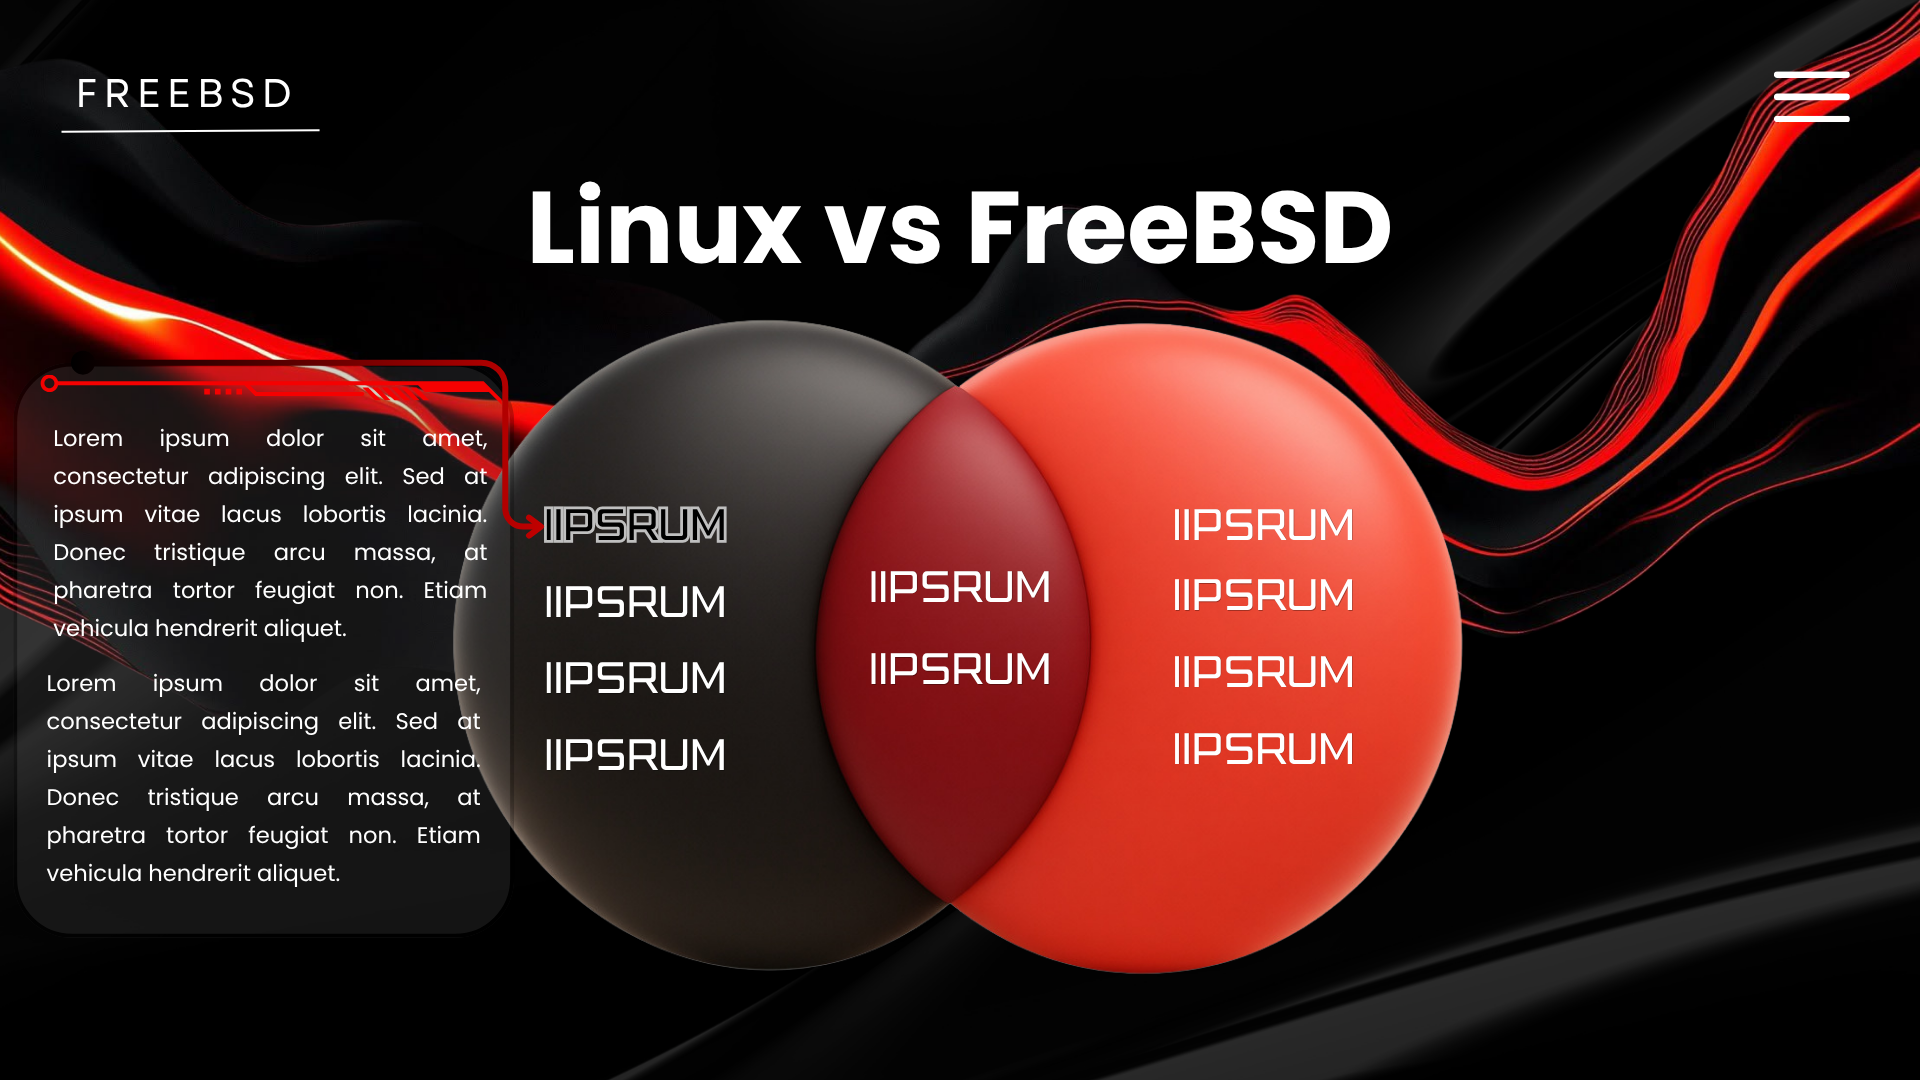
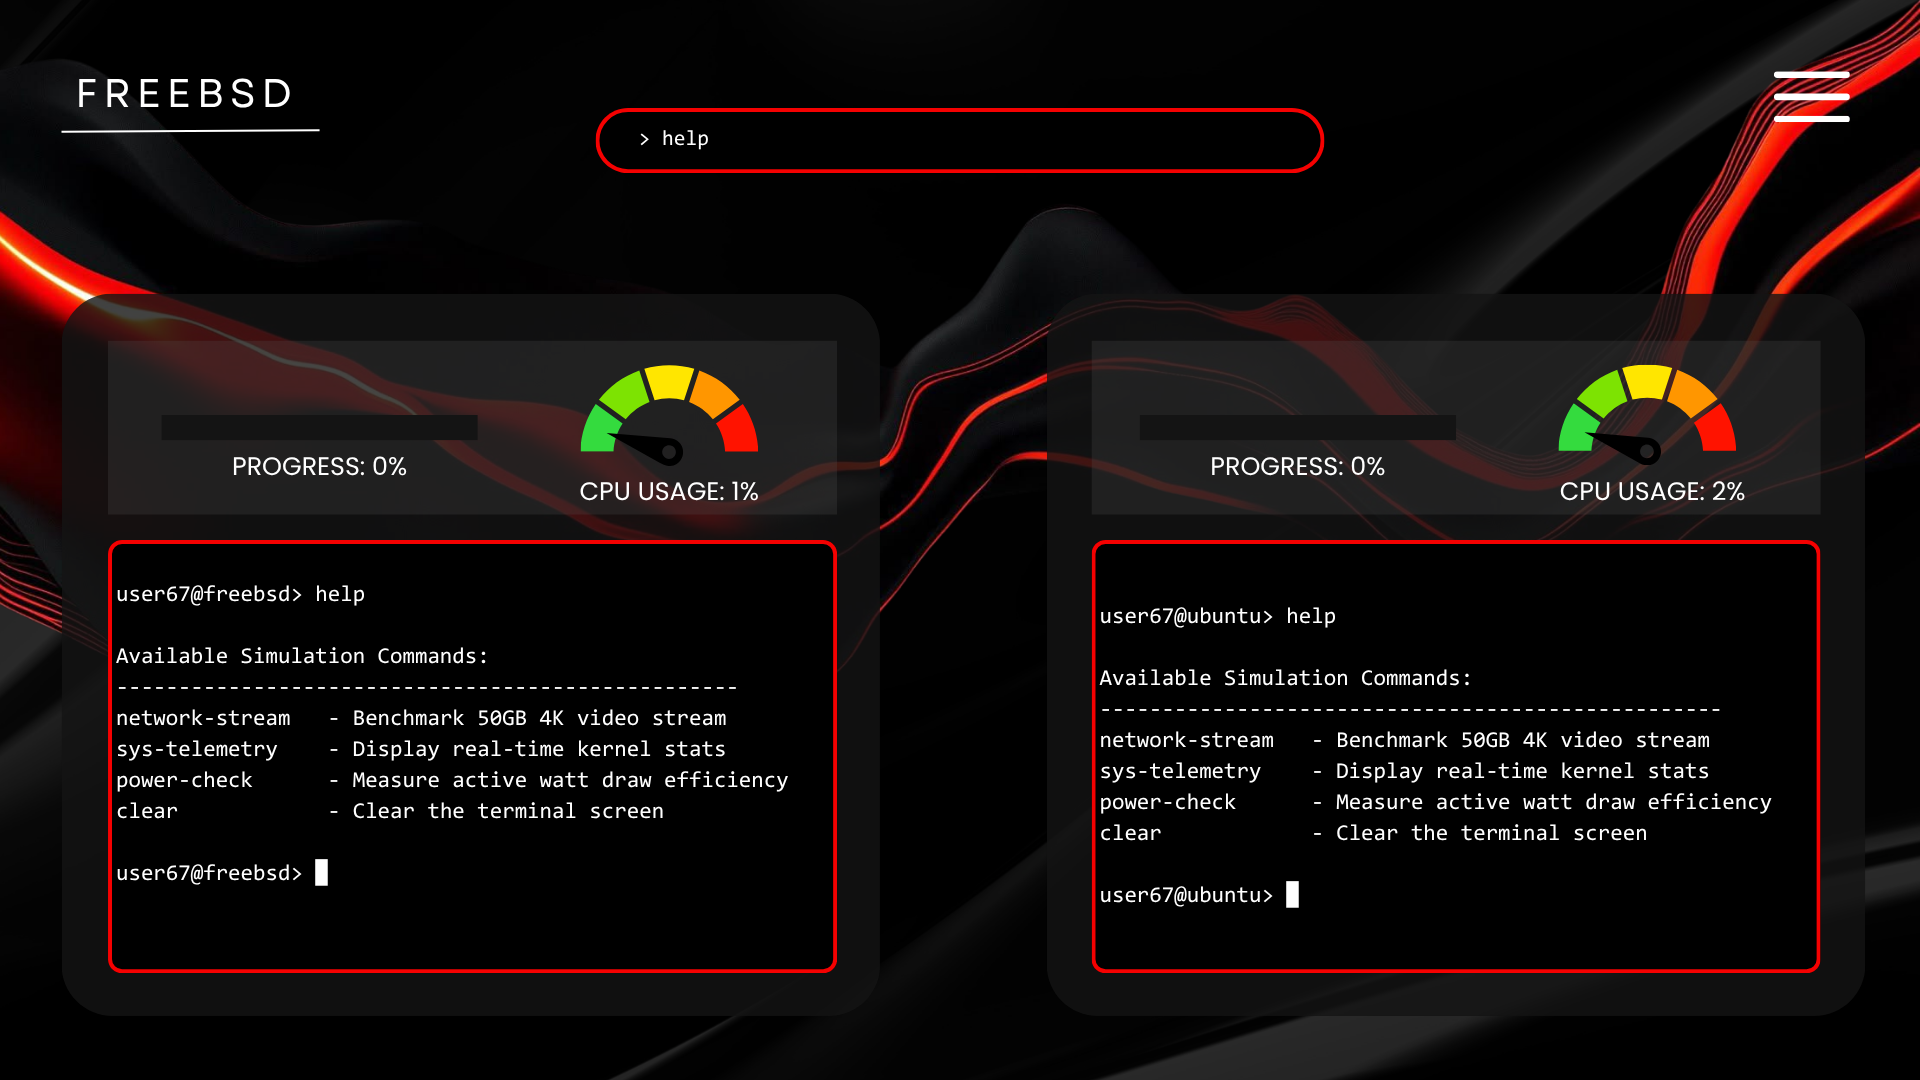
commit for revised proj proposal

diff --git a/README.md b/README.md
@@ -11,10 +11,13 @@ This section will discuss FreeBSD, touching on both FreeBSD as a piece of softwa
 This section will go over a few of the features of FreeBSD and detail how they work, that these features do, and what these features can do. This includes, but is not limited to: ZFS, which is the filesystem that FreeBSD used; jails, which work like containers to isolate running processes; and ports and packages, which are two distinct methods that FreeBSD uses to distribute applications.
 
 ### FreeBSD vs Linux
-This section will mostly be an interactive venn diagram that will show the similarities and differences between FreeBSD and Linux. With their similarities, some people may think that FreeBSD is a Linux distro, when it is not. The venn diagram will have clickable nodes inside each circle and in the middle as well. The node will have text that succinctly describes the similarity or difference. For instance, a node may be called “Unix-based systems”  and be put in the middle. When the user clicks one of these nodes, a pop-up modal will appear to give more details about the specific similarity or difference the node is pertaining to. 
+This section will feature an interactive dual-terminal simulator that demonstrates the architectural differences and similarities between FreeBSD and Linux in real time. With their similarities in both environments as both are Unix-based systems,, some people may think that FreeBSD is a Linux distro, when it is actually an entirely independent operating system. To clear up this misconception, the simulator provides a shared command input bar positioned above parallel terminal windows. When a user runs a command from a prepared list of available commands, both environments will instantly generate side-by-side system logs and update virtual CPU meters. This allows visitors to actively compare and experience how both systems handle processing loads.
 
 ### Where Can We Find FreeBSD Today?
 This section will discuss where FreeBSD is often used today. More than just providing a general answer, such as how FreeBSD is well-suited for server environments, we can provide a specific, real-life example when applicable. For example, in terms of server environments, we can cite Netflix as an example that uses FreeBSD for their content delivery network (FreeBSD Foundation, 2024).
+
+## Tech Stack Plan
+The table below outlines the project components, core technologies and their corresponding versions, and their applications that we selected for our team’s virtual exhibit.
 
 | **Project Component** | **Technology** | **Version**                                    | **Application & Justification**                                                                                                                                          |
 | :-------------------- | :------------- | :--------------------------------------------- | :----------------------------------------------------------------------------------------------------------------------------------------------------------------------- |
@@ -27,11 +30,16 @@ This section will discuss where FreeBSD is often used today. More than just prov
 
 Following the Tech Stack Plan, our Proposed Interactive Element is an Architectural Venn Diagram comparing FreeBSD with Linux. The planned User Experience (UX) and Technical Implementation of the interactive element is as follows:
 
-- Rendering: The interactive venn diagram is rendered directly in the MDX page. It is built as a separate component and is imported in the .mdx file of the virtual exhibit.
-- State Management: The venn diagram will feature clear labels and clickable items within the individual circles featuring the unique traits of FreeBSD and Linux while the intersection contains the shared traits of the two systems. When items in either the circles or the intersection are clicked, a modal/pop-up window including a detailed explanation on the specific trait will appear. React will be used for state management to dynamically manage the modal and the visibility of contents when a clickable item is triggered by the user or when it is closed.
-- Styling: Tailwind CSS will be utilized for styling of the venn diagram, positioning, animations and other design elements that will be utilized in the development of the overall virtual exhibit.
+### Rendering
+The interactive terminal simulator is rendered directly in the MDX page. It is built as a separate component file and is imported directly into the .mdx file of the virtual exhibit.
+### State Management
+The dashboard will feature a global command input bar at the top, positioned above two parallel terminal cards that represent the FreeBSD and Linux environments side-by-side. React will be used for the state management to keep track of user input, dynamic rendering of text logs in the terminal displays,  and updating the animations of the bars and gauges,
+- Each terminal area includes its own active progress bar and a visual CPU usage gauge widget that automatically runs an animation simulating the CPU response and progress as a command is being run.
+- Output logs are dynamically displayed on each terminal when a user inputs any of the provided commands. Some common Linux and FreeBSD (i.e.echo, cd, lds, etc.) will also be made available, given some restrictions, to reward users who may want to explore a bit more. Additionally, output logs will include short descriptions at the end describing to the user what the command did,  how it might translate in a real-world application, and how the command being run differs when run on FreeBSD vs Linux.
+### Styling 
+Tailwind CSS will be utilized for styling of the overall interactive terminal, positioning, animations and other design elements that will be utilized in the development of the overall virtual exhibit.
 
-### Tentative Style Guide Snapshot
+## Tentative Style Guide Snapshot
 
 ![1](https://raw.githubusercontent.com/notgian/csarch2-freebsd/refs/heads/main/imgs/1.png)
 ![2](https://raw.githubusercontent.com/notgian/csarch2-freebsd/refs/heads/main/imgs/2.png)